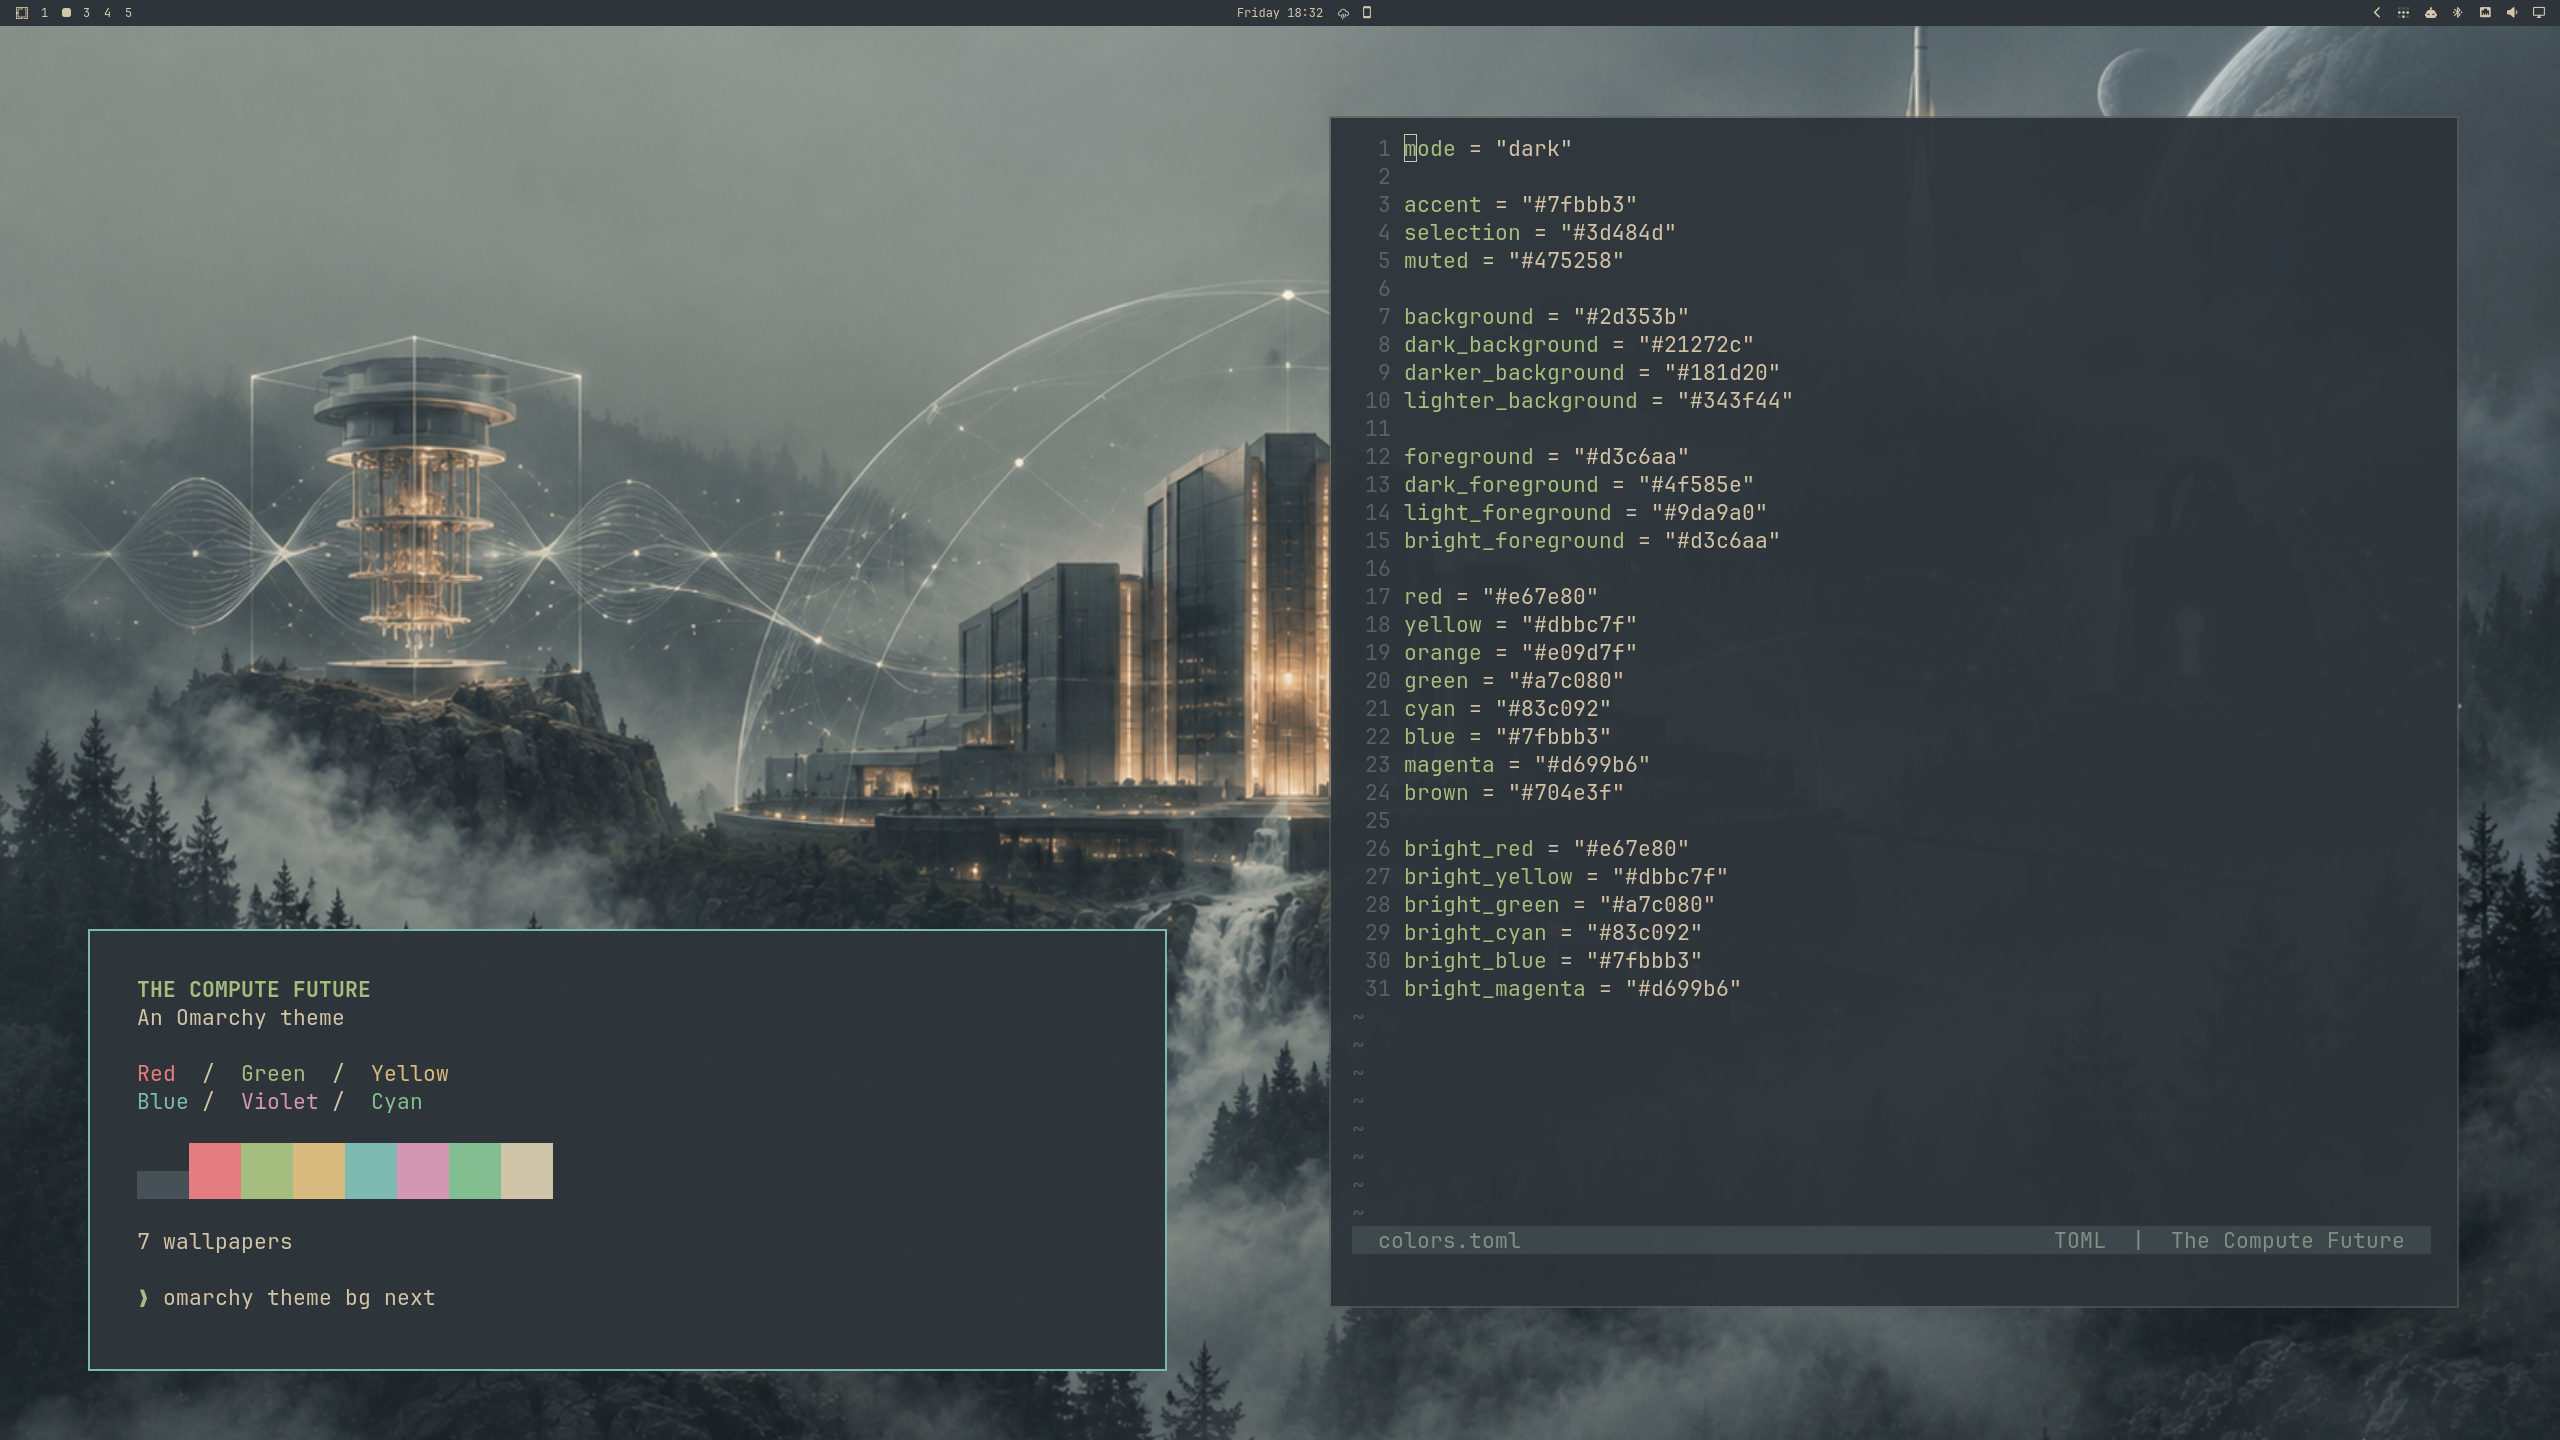
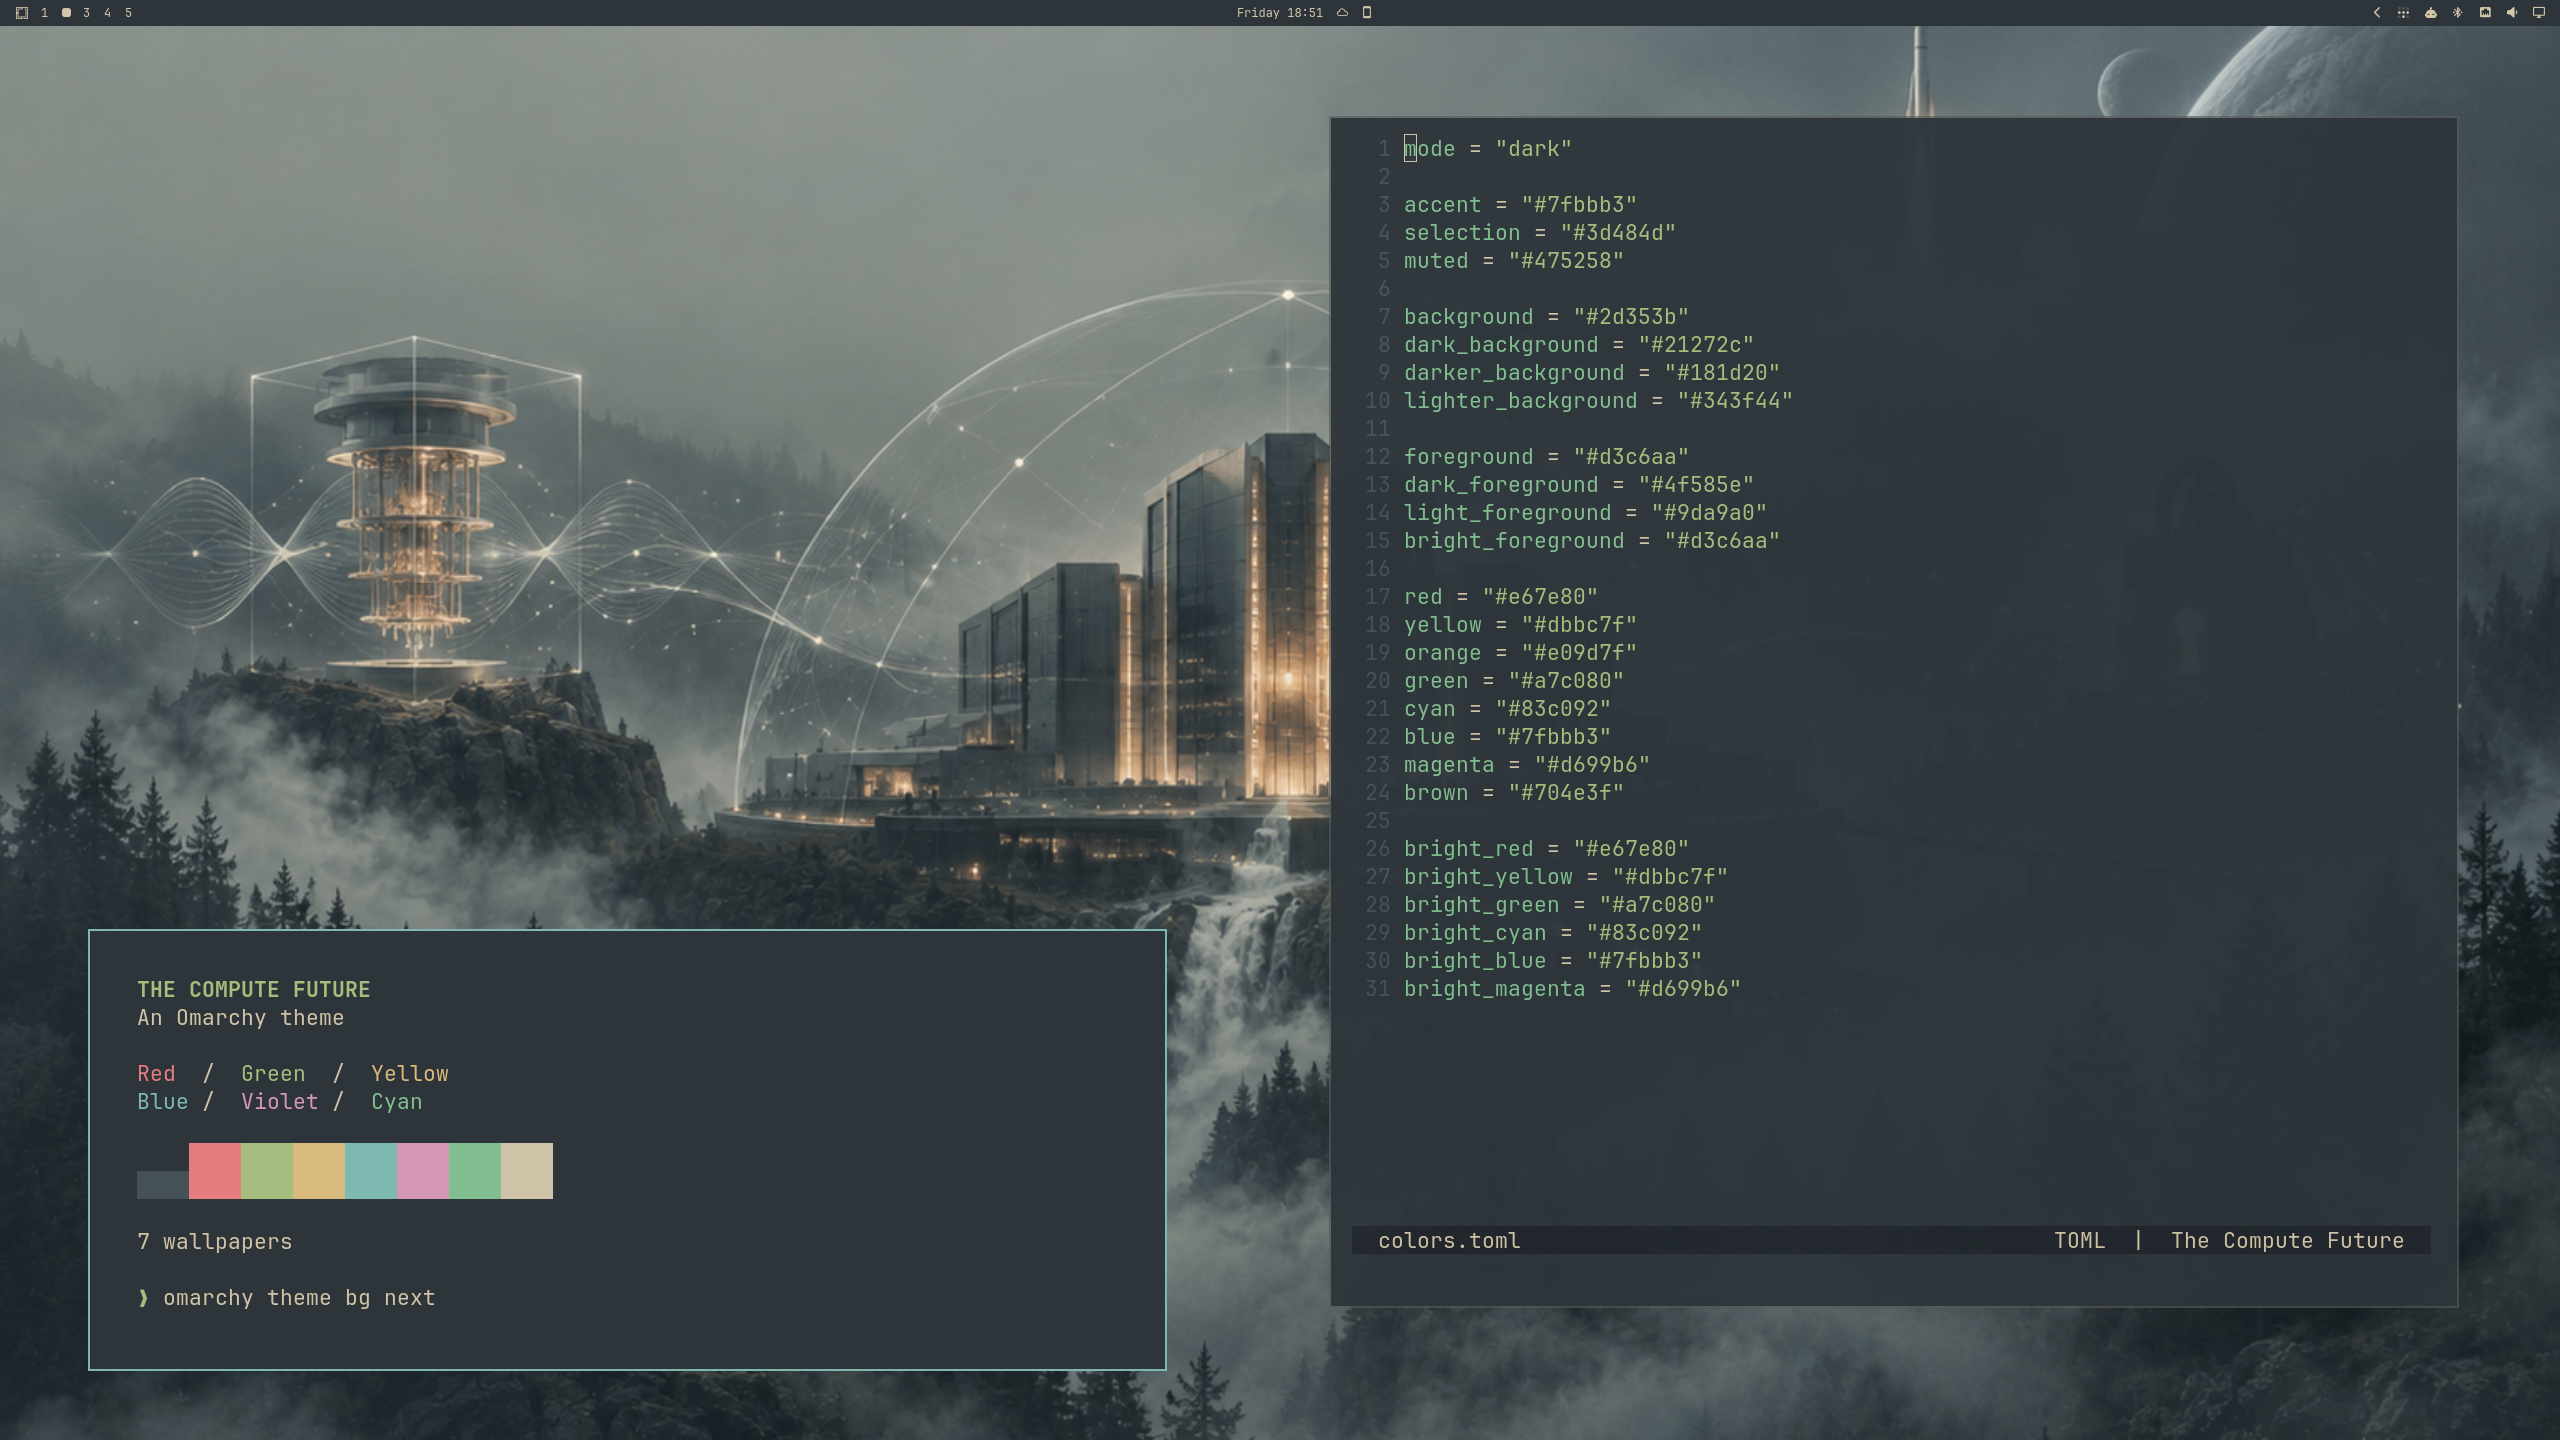
Refresh preview with verified Git-installed theme settings

diff --git a/README.md b/README.md
@@ -26,15 +26,17 @@ back it up first: the installer replaces the existing theme directory.
 
 On tested Omarchy 4.0.4-1, Git-installed themes regenerate terminal and editor
 configurations from `colors.toml`; bundled `neovim.lua` and `vscode.json` are
-not used. The preview shows the local Everforest editor override. Git-installed
-editors can differ in syntax details while using the same base palette.
+not used. The preview shows Ghostty and Neovim using the generated configuration from
+a clean Git installation. Local Everforest editor overrides can differ in syntax details.
 
 ## Validation
 
 Seven wallpapers decode successfully. Palette foreground/background contrast
 is 7.38:1. All 19 installed stock app templates generate with valid TOML/JSON
 and no unresolved tokens. The real desktop preview has a 16:9 aspect ratio.
-These checks do not constitute a live end-to-end theme installation test.
+The public repository was also installed successfully with `omarchy theme install`
+in an isolated headless environment; generated configurations and wallpapers were
+verified. Desktop preview windows used those generated editor settings.
 
 ## License and credits
 
